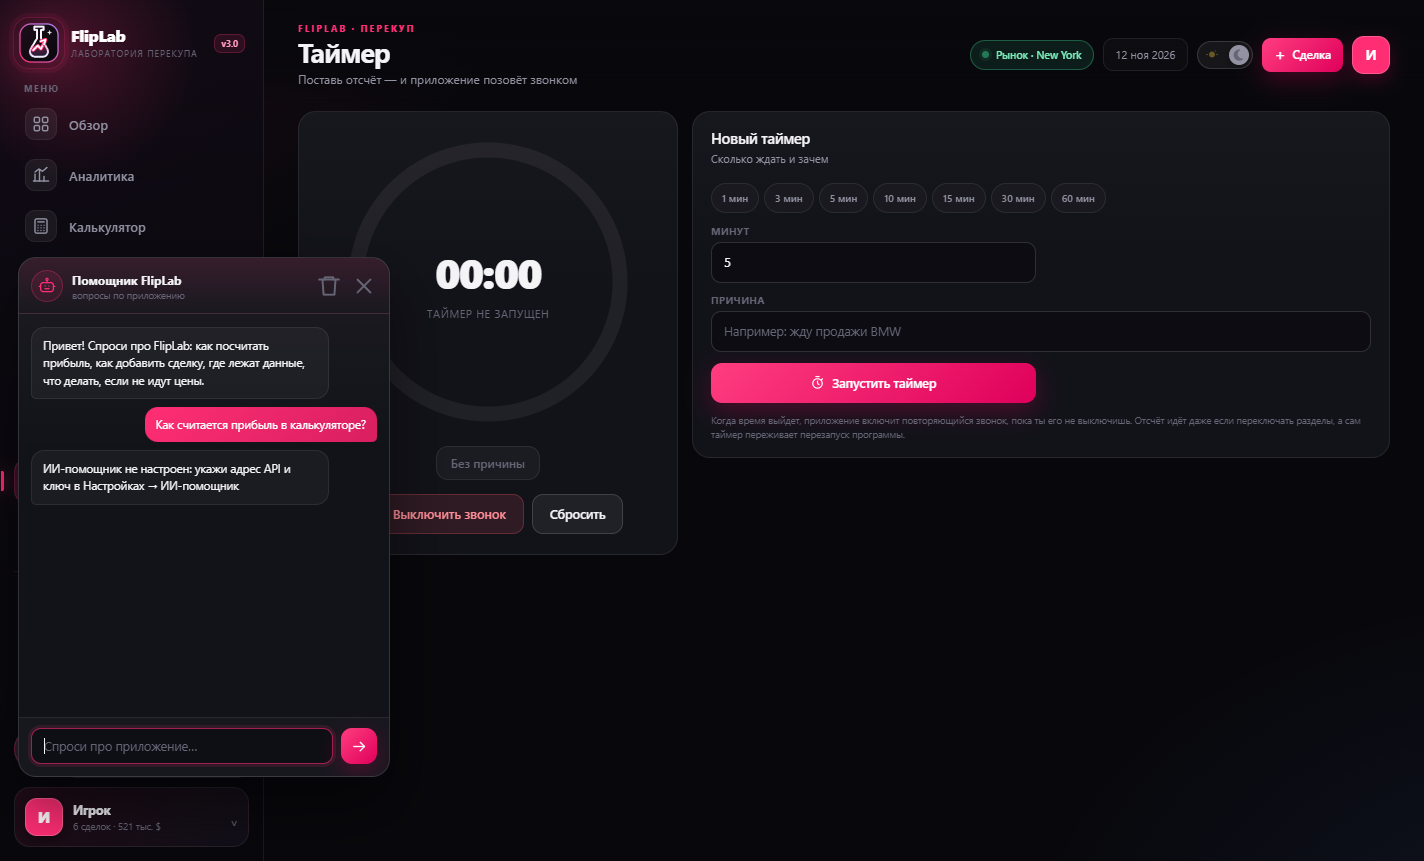
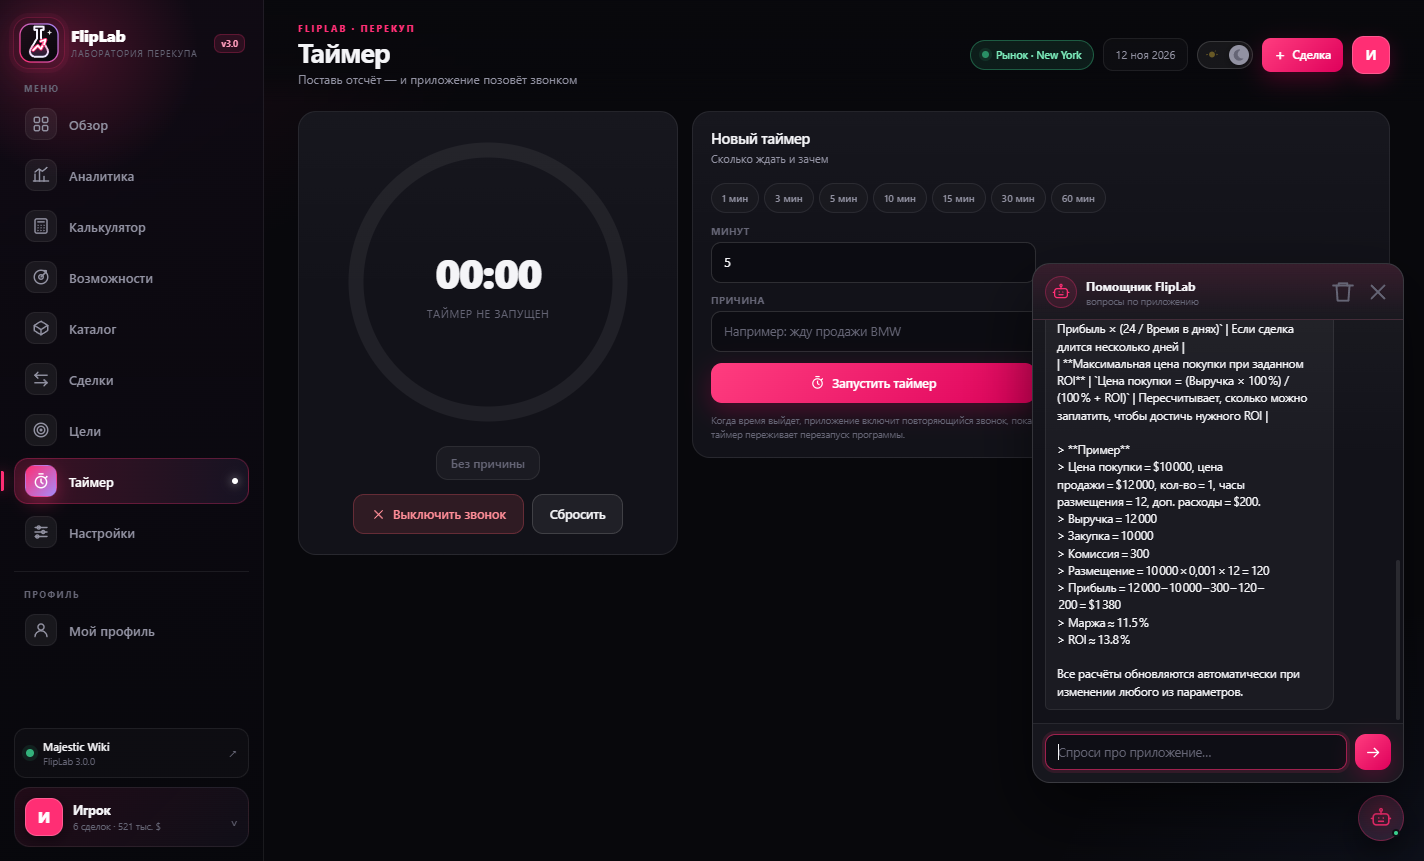
ИИ-помощник: справа снизу, работает без настроек

diff --git a/README.md b/README.md
@@ -7,13 +7,13 @@
 
 ## ИИ-помощник
 
-Слева снизу, рядом с профилем, круглая кнопка с роботом открывает чат, который отвечает
-**только на вопросы по приложению**: как считается прибыль, как добавить сделку, где лежат
-данные, что делать, если не идут цены. Никакой «лишней информации» — помощник знает про
-разделы, расчёты, настройки, файлы и типовые проблемы.
+В правом нижнем углу окна — круглая кнопка с роботом. По клику открывается чат, который
+отвечает **только на вопросы по приложению**: как считается прибыль, как добавить сделку, где
+лежат данные, что делать, если не идут цены. Никакой «лишней информации» — помощник знает
+про разделы, расчёты, настройки, файлы и типовые проблемы.
 
-Ключ и адрес API вписываются в приложении: **Настройки → ИИ-помощник**. Подойдёт любой
-OpenAI-совместимый сервис — OpenAI, GigaChat, Ollama. Ключ хранится только на этом компьютере.
+**Настраивать ничего не нужно:** встроенный помощник работает сразу из коробки. Свой
+ИИ-сервис (OpenAI, GigaChat, Ollama) можно подключить по желанию — в Настройках.
 
 ![ИИ-помощник](shots/6-ai-chat.png)
 

diff --git a/RELEASE_NOTES.md b/RELEASE_NOTES.md
@@ -18,7 +18,7 @@
 - **Картинки больше не обрезаются** — портретные предметы и одежда видны целиком.
 - **Одежда разделена на женскую и мужскую** с отдельными вкладками и фильтрами.
 - **Версия для Android:** та же программа в APK (16,1 МБ) с мобильным интерфейсом — нижнее меню, сетки в две колонки.
-- **ИИ-помощник:** круглая кнопка с роботом в левом нижнем углу открывает чат, который отвечает только на вопросы по приложению. Любой OpenAI-совместимый сервис (OpenAI, GigaChat, Ollama), ключ вписывается в Настройках и хранится только на компьютере. Живые цены и каталог работают так же.
+- **ИИ-помощник:** круглая кнопка с роботом в правом нижнем углу открывает чат, который отвечает только на вопросы по приложению. Работает сразу из коробки, без ключей и настроек; свой ИИ-сервис можно подключить по желанию. Живые цены и каталог работают так же.
 
 ## Установка
 
